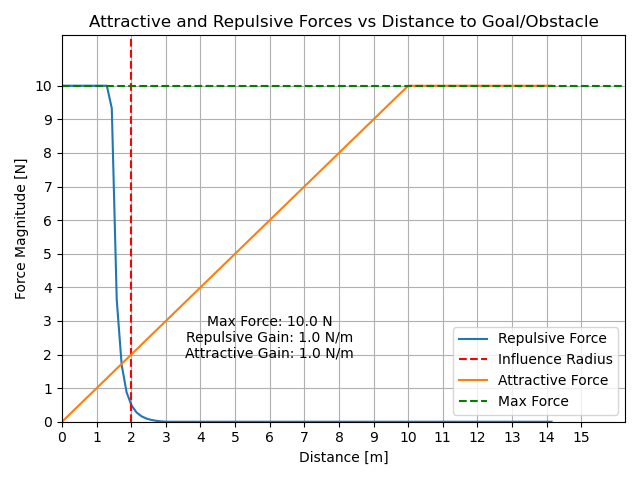
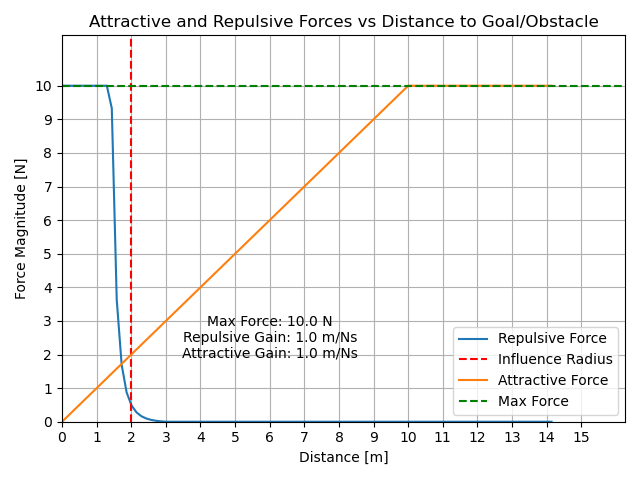
Edited units

Changed region(s): [[0.2812, 0.6875, 0.5625, 0.75]]

diff --git a/visualizing_pfields.py b/visualizing_pfields.py
@@ -253,7 +253,7 @@ def graph_forces():
     plt.plot(distances, attractive_forces, label='Attractive Force')
     plt.title('Attractive and Repulsive Forces vs Distance to Goal/Obstacle')
     plt.text(
-        6, 2.5, f"Max Force: {max_force:.1f} N\nRepulsive Gain: {1.0:.1f} N/m\nAttractive Gain: {1.0:.1f} N/m",
+        6, 2.5, f"Max Force: {max_force:.1f} N\nRepulsive Gain: {1.0:.1f} m/Ns\nAttractive Gain: {1.0:.1f} m/Ns",
         fontsize=10, color='black', ha='center', va='center'
     )
     plt.xlabel('Distance [m]')
